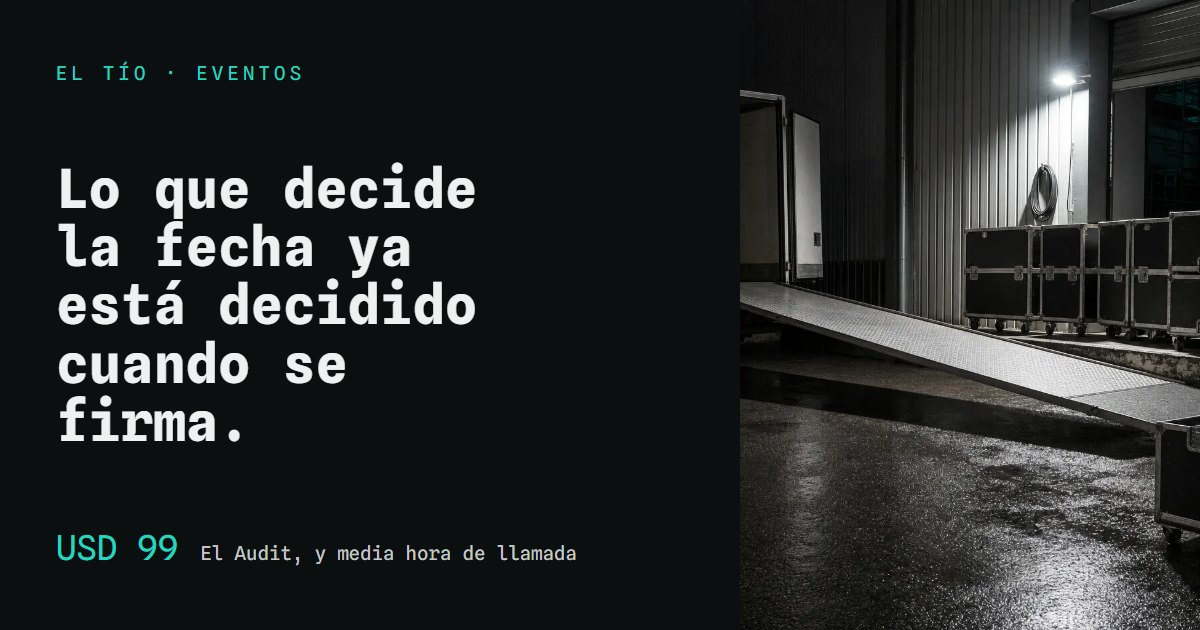
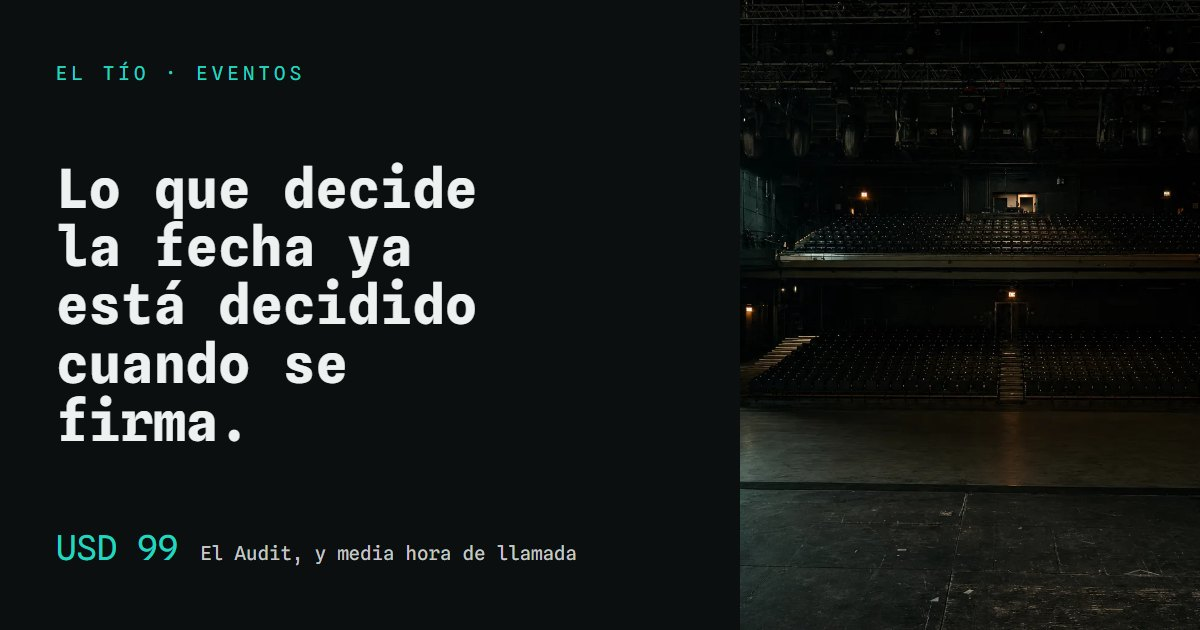
feat: las once fotografias de eventos y la hoja de las secciones nuevas
Sale del generador. La pagina pasa de 20 a 30 KB y de dos imagenes a catorce.

La hoja suma cuatro bloques: la base con su medida al costado, el caso trabajado como
lista de definiciones, la hoja de ruta con el cero marcado, y la fotografia de cada
herramienta. Todas las fotos van desaturadas y con contraste levantado para que convivan
con el carbon: una foto a saturacion plena en una pagina que es sala apagada se lee como un
banner pegado encima.

Medido a 1440, a 390 y a 320x256 con la pagina ya densa: cero desborde, cero textos
encimados, ningun bloque invisible y cero errores. Contraste en verde con el terciario
corregido.

Changed region(s): [[0.6167, 0.0, 1.0, 1.0], [0.6783, 0.9349, 0.7092, 0.9651]]

diff --git a/eventos/index.html b/eventos/index.html
@@ -124,7 +124,33 @@
       <li><h3>La sala</h3><p>El aforo decide el techo. Una sala grande a medio llenar cuesta más que una chica llena.</p></li>
       <li><h3>El precio</h3><p>Se define mirando lo que cobró el vecino, no lo que necesita esta fecha para cerrar.</p></li>
     </ol>
-    <figure class="banda"><img src="../assets/ev-carga.webp" srcset="../assets/ev-carga-480.webp 480w, ../assets/ev-carga-768.webp 768w, ../assets/ev-carga-1200.webp 1200w, ../assets/ev-carga.webp 1536w" sizes="(max-width: 900px) 94vw, 62vw" alt="Cajas de equipo y flight cases apilados en la carga de una sala antes del montaje" width="1536" height="1024" loading="lazy" decoding="async"><figcaption>Todo lo que viene después de firmar es ejecución.</figcaption></figure>
+    <figure class="banda"><img src="../assets/ev-sala-servicio.webp" srcset="../assets/ev-sala-servicio-480.webp 480w, ../assets/ev-sala-servicio-768.webp 768w, ../assets/ev-sala-servicio-1200.webp 1200w, ../assets/ev-sala-servicio.webp 1536w" sizes="(max-width: 900px) 94vw, 62vw" alt="Una sala de conciertos vacía vista desde el escenario, iluminada solo con luces de trabajo" width="1536" height="1024" loading="lazy" decoding="async"><figcaption>La sala vacía con luz de servicio, que es donde se decide todo y lo que ninguna página del rubro muestra.</figcaption></figure>
+  </div>
+</section>
+
+<section class="tramo " id="base" data-desfase="D-75">
+  <div class="tramo-eje" aria-hidden="true">
+    <span class="eje-marca">D-75</span>
+    <span class="eje-linea"></span>
+  </div>
+  <div class="tramo-cuerpo">
+    <p class="rotulo">LA BASE</p>
+    <h2>Esto va siempre, encuentre lo que encuentre el Audit.</h2>
+    <p class="bajada">Es lo que sostiene todo lo demás. Sin esto, cualquier automatización se
+    monta sobre una fecha que nadie sabe cómo se vendió.</p>
+    <ul class="base">
+      <li><div class="base-cab"><h3>CRM</h3><span class="base-medida">sobre el que ya tengas</span></div><p>Si ya tienes uno, trabajamos sobre ese. Si no, lo montamos con el circuito real: artista, hold, contrato, advancing.</p></li>
+      <li><div class="base-cab"><h3>Tu base de datos, ordenada</h3><span class="base-medida">una fila por persona</span></div><p>Compradores de entradas de fechas anteriores, unificados por persona y no por transacción, que es como suelen estar.</p></li>
+      <li><div class="base-cab"><h3>Newsletter propio</h3><span class="base-medida">tu lista, no la de la ticketera</span></div><p>Tu lista para anunciar una fecha antes que la ticketera, y sin pagarle a nadie por llegar a tu propia gente.</p></li>
+      <li><div class="base-cab"><h3>Web propia y editable</h3><span class="base-medida">una página por fecha</span></div><p>El sitio de la productora y una página por evento, con el camino completo hasta el pago.</p></li>
+      <li><div class="base-cab"><h3>Chatbot que atiende y califica</h3><span class="base-medida">a cualquier hora</span></div><p>Contesta lo de siempre: horarios, edad mínima, mesas, accesos y cómo llegar.</p></li>
+    </ul>
+    <div class="con-foto">
+      <figure class="figura"><img src="../assets/ev-oficina-productora.webp" srcset="../assets/ev-oficina-productora-480.webp 480w, ../assets/ev-oficina-productora-768.webp 768w, ../assets/ev-oficina-productora-1200.webp 1200w, ../assets/ev-oficina-productora.webp 1536w" sizes="(max-width: 900px) 94vw, 46vw" alt="La oficina de una productora de noche, con el escritorio cargado de papeles, la lámpara encendida y el planificador de pared en blanco detrás" width="1536" height="1024" loading="lazy" decoding="async"><figcaption>La oficina de la productora, que es lo que ninguna página del rubro muestra.</figcaption></figure>
+      <p class="dato">Nada de esto es una plataforma nuestra. Se monta sobre herramientas
+      que ya existen, queda a tu nombre y con tus accesos, y el equipo aprende a operarlo.
+      Si ya tienes algo funcionando, se trabaja sobre eso.</p>
+    </div>
   </div>
 </section>
 
@@ -191,6 +217,7 @@
     <p class="dato">La misma cuenta, con moneda y tabla de escenarios, está publicada y es
     gratis: <a href="https://app.eltio.net/herramientas/punto-de-equilibrio">la calculadora de punto de
     equilibrio</a>.</p>
+    <figure class="banda"><img src="../assets/ev-foh-consola.webp" srcset="../assets/ev-foh-consola-480.webp 480w, ../assets/ev-foh-consola-768.webp 768w, ../assets/ev-foh-consola-1200.webp 1200w, ../assets/ev-foh-consola.webp 1536w" sizes="(max-width: 900px) 94vw, 62vw" alt="Una consola de sonido de sala en la posición de front of house, con los faders iluminados por una lámpara de cuello" width="1536" height="1024" loading="lazy" decoding="async"><figcaption>El objeto que gradúa algo en una sala es un fader, no una barra de progreso.</figcaption></figure>
   </div>
 </section>
 
@@ -206,12 +233,12 @@
     Entregamos la herramienta y la capacitación para usarla, que es lo que queda cuando
     termina el trabajo.</p>
     <ol class="herramientas">
-      <li data-revela><h3>Analizar una fecha antes de firmarla</h3><p class="herr-frase">Artista, plaza, sala y economía en una sola lectura.</p><p class="herr-cuerpo">Qué audiencia observable hay en esa ciudad, qué compite esa semana, qué tan cargado está el mes y cuál es el número que decide. Cada fecha queda guardada tal como se vio ese día, para poder comparar después contra lo que pasó.</p></li>
-      <li data-revela><h3>Comparar fechas lado a lado</h3><p class="herr-frase">Tres o cuatro opciones, con los mismos criterios.</p><p class="herr-cuerpo">Cuando hay que elegir entre un artista y otro, o entre dos salas, o entre dos fines de semana, la comparación se hace con las mismas variables y no de memoria.</p></li>
-      <li data-revela><h3>La página del evento</h3><p class="herr-frase">El camino completo hasta el pago.</p><p class="herr-cuerpo">Entrada general, mesas, VIP, preguntas frecuentes, WhatsApp y seguimiento. Se arma sobre la ticketera que ya usas, no la reemplaza.</p></li>
-      <li data-revela><h3>El advancing, preparado</h3><p class="herr-frase">El mismo ida y vuelta de cada fecha, listo de antemano.</p><p class="herr-cuerpo">Del contrato y del rider salen los pagos, el hotel, los vuelos, los transfers, la hospitality, lo técnico y los deadlines. Una persona aprueba antes de que salga algo.</p></li>
-      <li data-revela><h3>Tu base de compradores</h3><p class="herr-frase">Unificada por persona, no por transacción.</p><p class="herr-cuerpo">Los que compraron entradas de fechas anteriores, deduplicados y con lo que fueron a ver. Es lo que permite anunciar una fecha a tu propia gente antes que la ticketera.</p></li>
-      <li data-revela><h3>Chatbot que atiende y califica</h3><p class="herr-frase">Lo de siempre, contestado a cualquier hora.</p><p class="herr-cuerpo">Horarios, edad mínima, mesas, accesos y cómo llegar. Y lo que no sabe, lo deriva con la conversación entera adelante.</p></li>
+      <li data-revela><figure class="herr-foto"><img src="../assets/ev-contrato-mesa.webp" srcset="../assets/ev-contrato-mesa-480.webp 480w, ../assets/ev-contrato-mesa-768.webp 768w, ../assets/ev-contrato-mesa-1200.webp 1200w, ../assets/ev-contrato-mesa.webp 1536w" sizes="(max-width: 560px) 92vw, (max-width: 900px) 46vw, 30vw" alt="Un contrato y una hoja de calendario sobre la tapa de un case, con una lámpara de trabajo iluminándolos de costado" width="1536" height="1024" loading="lazy" decoding="async"></figure><h3>Analizar una fecha antes de firmarla</h3><p class="herr-frase">Artista, plaza, sala y economía en una sola lectura.</p><p class="herr-cuerpo">Qué audiencia observable hay en esa ciudad, qué compite esa semana, qué tan cargado está el mes y cuál es el número que decide. Cada fecha queda guardada tal como se vio ese día, para poder comparar después contra lo que pasó.</p></li>
+      <li data-revela><figure class="herr-foto"><img src="../assets/ev-afiches-pared.webp" srcset="../assets/ev-afiches-pared-480.webp 480w, ../assets/ev-afiches-pared-768.webp 768w, ../assets/ev-afiches-pared-1200.webp 1200w, ../assets/ev-afiches-pared.webp 1536w" sizes="(max-width: 560px) 92vw, (max-width: 900px) 46vw, 30vw" alt="Una pared de pasillo de sala cubierta de capas de afiches serigrafiados, rasgados y superpuestos" width="1536" height="1024" loading="lazy" decoding="async"></figure><h3>Comparar fechas lado a lado</h3><p class="herr-frase">Tres o cuatro opciones, con los mismos criterios.</p><p class="herr-cuerpo">Cuando hay que elegir entre un artista y otro, o entre dos salas, o entre dos fines de semana, la comparación se hace con las mismas variables y no de memoria.</p></li>
+      <li data-revela><figure class="herr-foto"><img src="../assets/ev-boleteria.webp" srcset="../assets/ev-boleteria-480.webp 480w, ../assets/ev-boleteria-768.webp 768w, ../assets/ev-boleteria-1200.webp 1200w, ../assets/ev-boleteria.webp 1536w" sizes="(max-width: 560px) 92vw, (max-width: 900px) 46vw, 30vw" alt="La ventanilla de boletería de una sala cerrada de noche, con la persiana a medio bajar y una luz encendida adentro" width="1536" height="1024" loading="lazy" decoding="async"></figure><h3>La página del evento</h3><p class="herr-frase">El camino completo hasta el pago.</p><p class="herr-cuerpo">Entrada general, mesas, VIP, preguntas frecuentes, WhatsApp y seguimiento. Se arma sobre la ticketera que ya usas, no la reemplaza.</p></li>
+      <li data-revela><figure class="herr-foto"><img src="../assets/ev-advancing-caso.webp" srcset="../assets/ev-advancing-caso-480.webp 480w, ../assets/ev-advancing-caso-768.webp 768w, ../assets/ev-advancing-caso.webp 1024w" sizes="(max-width: 560px) 92vw, (max-width: 900px) 46vw, 30vw" alt="Un case negro abierto en el piso de un pasillo de backstage, con una carpeta de anillos, cables enrollados y una linterna adentro" width="1024" height="1024" loading="lazy" decoding="async"></figure><h3>El advancing, preparado</h3><p class="herr-frase">El mismo ida y vuelta de cada fecha, listo de antemano.</p><p class="herr-cuerpo">Del contrato y del rider salen los pagos, el hotel, los vuelos, los transfers, la hospitality, lo técnico y los deadlines. Una persona aprueba antes de que salga algo.</p></li>
+      <li data-revela><figure class="herr-foto"><img src="../assets/ev-pulseras.webp" srcset="../assets/ev-pulseras-480.webp 480w, ../assets/ev-pulseras-768.webp 768w, ../assets/ev-pulseras-1200.webp 1200w, ../assets/ev-pulseras.webp 1536w" sizes="(max-width: 560px) 92vw, (max-width: 900px) 46vw, 30vw" alt="Una pila de pulseras de tela y talones de entrada sobre una mesa metálica oscura en la entrada de una sala" width="1536" height="1024" loading="lazy" decoding="async"></figure><h3>Tu base de compradores</h3><p class="herr-frase">Unificada por persona, no por transacción.</p><p class="herr-cuerpo">Los que compraron entradas de fechas anteriores, deduplicados y con lo que fueron a ver. Es lo que permite anunciar una fecha a tu propia gente antes que la ticketera.</p></li>
+      <li data-revela><figure class="herr-foto"><img src="../assets/ev-puerta-lista.webp" srcset="../assets/ev-puerta-lista-480.webp 480w, ../assets/ev-puerta-lista-768.webp 768w, ../assets/ev-puerta-lista-1200.webp 1200w, ../assets/ev-puerta-lista.webp 1536w" sizes="(max-width: 560px) 92vw, (max-width: 900px) 46vw, 30vw" alt="La puerta de entrada de una sala de noche, con la tabla de la lista de puerta colgada al costado" width="1536" height="1024" loading="lazy" decoding="async"></figure><h3>Chatbot que atiende y califica</h3><p class="herr-frase">Lo de siempre, contestado a cualquier hora.</p><p class="herr-cuerpo">Horarios, edad mínima, mesas, accesos y cómo llegar. Y lo que no sabe, lo deriva con la conversación entera adelante.</p></li>
     </ol>
   </div>
 </section>
@@ -246,6 +273,41 @@
       </figure>
     </div>
     <p class="honesto">No predecimos venta de entradas, y conviene desconfiar de quien lo prometa. Otras herramientas del rubro lo hacen con datos de ticketing verificados que nosotros no tenemos. Nuestro terreno es la economía de la fecha.</p>
+  </div>
+</section>
+
+<section class="tramo " id="caso" data-desfase="D-21">
+  <div class="tramo-eje" aria-hidden="true">
+    <span class="eje-marca">D-21</span>
+    <span class="eje-linea"></span>
+  </div>
+  <div class="tramo-cuerpo">
+    <p class="rotulo">UN CASO</p>
+    <h2>Una productora con 2 a 4 fechas por mes en una sala de 800 personas</h2>
+    <dl class="escenario">
+      <div class="esc-fila"><dt>QUÉ ENTRA</dt><dd>El cachet, el costo de sala, producción y publicidad, el precio de entrada y la comisión de la ticketera. Del lado del artista, qué audiencia observable hay en esa ciudad y qué otra cosa hay esa semana.</dd></div>
+      <div class="esc-fila"><dt>QUÉ SALE</dt><dd>Cuántas entradas hacen falta para no perder y qué porcentaje del aforo representa. Si son 620 de 800, es un riesgo alto.</dd></div>
+      <div class="esc-fila"><dt>QUÉ CAMBIA</dt><dd>Se firma, se renegocia el cachet o se pasa. Con el número sobre la mesa, no después.</dd></div>
+    </dl>
+    <p class="honesto">Lo que mediríamos: fecha por fecha, lo estimado contra lo que pasó. Es la única forma honesta de ganar precisión.</p>
+  </div>
+</section>
+
+<section class="ruta" id="ruta">
+  <div class="ruta-marco">
+    <p class="rotulo">LA HOJA DE RUTA</p>
+    <h2>Noventa días, y el único momento que no se mueve.</h2>
+    <ol class="ruta-lista">
+      <li><span class="ruta-d">D-90</span><span class="ruta-que">Se decide</span><span class="ruta-det">Artista, día, sala, cachet y precio. Acá se gana o se pierde la fecha.</span></li>
+      <li><span class="ruta-d">D-75</span><span class="ruta-que">Se monta la base</span><span class="ruta-det">CRM, base de compradores, newsletter, página propia.</span></li>
+      <li><span class="ruta-d">D-60</span><span class="ruta-que">Se hace la cuenta</span><span class="ruta-det">Cuántas entradas para no perder y qué parte del aforo es.</span></li>
+      <li><span class="ruta-d">D-45</span><span class="ruta-que">Se firma o no</span><span class="ruta-det">Con el número sobre la mesa: se firma, se renegocia o se pasa.</span></li>
+      <li><span class="ruta-d">D-30</span><span class="ruta-que">Se publica</span><span class="ruta-det">La página de la fecha, el anuncio a tu propia gente, la pauta.</span></li>
+      <li><span class="ruta-d">D-14</span><span class="ruta-que">Se prepara la fecha</span><span class="ruta-det">Advancing: pagos, hotel, vuelos, transfers, técnico.</span></li>
+      <li><span class="ruta-d">D-3</span><span class="ruta-que">Se cierra la operación</span><span class="ruta-det">Listas, acreditaciones, puerta, horarios.</span></li>
+      <li class='ruta-cero'><span class="ruta-d">D-0</span><span class="ruta-que">Puertas</span><span class="ruta-det">A partir de acá solo se ejecuta.</span></li>
+      <li><span class="ruta-d">D+1</span><span class="ruta-que">Settlement</span><span class="ruta-det">Lo estimado contra lo que pasó, guardado para la próxima.</span></li>
+    </ol>
   </div>
 </section>
 
@@ -286,6 +348,7 @@
       <li data-revela><span class="paso-num">03</span><h3>Automatizamos</h3><p>Solo lo que tiene sentido en esta productora, en el orden que conviene.</p></li>
       <li data-revela><span class="paso-num">04</span><h3>Capacitamos</h3><p>El equipo queda sabiendo operarlo. Si depende de nosotros, no sirve.</p></li>
     </ol>
+    <figure class="banda"><img src="../assets/ev-prueba-sonido.webp" srcset="../assets/ev-prueba-sonido-480.webp 480w, ../assets/ev-prueba-sonido-768.webp 768w, ../assets/ev-prueba-sonido-1200.webp 1200w, ../assets/ev-prueba-sonido.webp 1536w" sizes="(max-width: 900px) 94vw, 62vw" alt="Un escenario vacío durante el montaje, con los pies de micrófono colocados y los cables pegados al piso" width="1536" height="1024" loading="lazy" decoding="async"><figcaption>Cada tiempo se apoya en el anterior, igual que el montaje.</figcaption></figure>
   </div>
 </section>
 
@@ -325,6 +388,7 @@
         <p class="liq-entrega">Se entrega en 24 a 48 horas hábiles.</p>
       </div>
     </div>
+    <figure class="banda"><img src="../assets/ev-liquidacion.webp" srcset="../assets/ev-liquidacion-480.webp 480w, ../assets/ev-liquidacion-768.webp 768w, ../assets/ev-liquidacion-1200.webp 1200w, ../assets/ev-liquidacion.webp 1536w" sizes="(max-width: 900px) 94vw, 62vw" alt="La liquidación de una fecha contándose sobre una mesa metálica después del show, con el formulario, la calculadora y el contador de entradas" width="1536" height="1024" loading="lazy" decoding="async"><figcaption>El settlement es donde hoy aparece el número. Debería aparecer noventa días antes.</figcaption></figure>
   </div>
 </section>
 

diff --git a/eventos.css b/eventos.css
@@ -593,6 +593,135 @@ p { margin: 0 0 var(--e3); max-width: 62ch; }
 .herr-cuerpo { font-size: 13.5px; line-height: 1.66; color: var(--cal-3); margin: 0; }
 
 
+
+
+/* --------------------------------------------------------------------- D-75 la base
+   El posicionamiento del founder: la base lidera. En la version anterior era una lista
+   plana sin borde ni fondo, con cero inversion visual, mientras el diferencial se
+   llevaba el unico diagrama de la pagina. */
+
+.base { list-style: none; margin: var(--e5) 0 0; padding: 0; display: grid; gap: 0; }
+.base li { border-top: 1px solid var(--linea); padding: var(--e3) 0; }
+.base li:last-child { border-bottom: 1px solid var(--linea); }
+.base-cab {
+  display: flex;
+  flex-wrap: wrap;
+  align-items: baseline;
+  justify-content: space-between;
+  gap: var(--e2) var(--e4);
+}
+.base-medida {
+  font-family: var(--voz);
+  font-size: 11.5px;
+  letter-spacing: 0.12em;
+  color: var(--gel);
+  white-space: nowrap;
+}
+.base p { margin: var(--e2) 0 0; font-size: 14.5px; color: var(--cal-2); max-width: 68ch; }
+
+.con-foto {
+  display: grid;
+  grid-template-columns: minmax(0, 1fr) minmax(0, 0.82fr);
+  gap: var(--e4);
+  align-items: end;
+  margin-top: var(--e5);
+}
+.con-foto .figura { margin: 0; }
+.con-foto .figura img { width: 100%; height: auto; aspect-ratio: 16 / 9; object-fit: cover; filter: saturate(0.72) contrast(1.05); }
+.con-foto .figura figcaption {
+  font-family: var(--voz);
+  font-size: 12.5px;
+  line-height: 1.6;
+  color: var(--cal-3);
+  margin-top: var(--e2);
+  padding-top: var(--e2);
+  border-top: 1px solid var(--linea);
+}
+@media (max-width: 900px) { .con-foto { grid-template-columns: 1fr; } }
+
+
+/* ------------------------------------------------------------------ D-21 el escenario
+   El unico bloque que habla del negocio del lector con numeros concretos. Estaba escrito
+   en los datos del vertical y la pagina anterior lo enterraba en la seccion nueve. */
+
+.escenario { margin: var(--e5) 0 0; display: grid; gap: 0; }
+.esc-fila {
+  display: grid;
+  grid-template-columns: minmax(120px, 176px) minmax(0, 1fr);
+  gap: var(--e4);
+  border-top: 1px solid var(--linea-fuerte);
+  padding: var(--e3) 0;
+}
+.esc-fila dt {
+  font-family: var(--voz);
+  font-size: 11.5px;
+  letter-spacing: 0.16em;
+  color: var(--gel);
+}
+.esc-fila dd { margin: 0; font-size: 15px; color: var(--cal-2); max-width: 62ch; }
+@media (max-width: 640px) { .esc-fila { grid-template-columns: 1fr; gap: var(--e1); } }
+
+
+/* ==================================================================== la hoja de ruta
+   El componente de firma (c) hecho explicito: los mismos desfases que enhebran la pagina,
+   puestos como lo que son, un run of show. El orden rector de las mejores referencias del
+   rubro es la grilla de horarios, no una secuencia de modulos de marketing. */
+
+.ruta {
+  background: var(--n3);
+  padding: var(--e6) var(--margen);
+  border-top: 1px solid var(--linea);
+  border-bottom: 1px solid var(--linea);
+}
+.ruta-marco { max-width: var(--ancho); margin: 0 auto; }
+.ruta-lista { list-style: none; margin: var(--e5) 0 0; padding: 0; }
+.ruta-lista li {
+  display: grid;
+  grid-template-columns: 72px minmax(150px, 0.6fr) minmax(0, 1fr);
+  gap: var(--e3) var(--e4);
+  align-items: baseline;
+  border-top: 1px solid var(--linea);
+  padding: var(--e3) 0;
+}
+.ruta-lista li:last-child { border-bottom: 1px solid var(--linea); }
+.ruta-d {
+  font-family: var(--voz);
+  font-size: 13px;
+  font-weight: 500;
+  letter-spacing: 0.05em;
+  color: var(--cal-3);
+  font-variant-numeric: tabular-nums;
+}
+.ruta-que { font-family: var(--voz); font-size: 15.5px; color: var(--cal); letter-spacing: -0.01em; }
+.ruta-det { font-size: 14px; color: var(--cal-2); }
+
+/* El cero es el unico quiebre de la lista, igual que PUERTAS es el unico quiebre de la
+   pagina. Es el tercero y ultimo de los focos. */
+.ruta-cero { border-top-color: var(--gel-linea); }
+.ruta-cero .ruta-d { color: var(--gel); }
+.ruta-cero .ruta-que { color: var(--foco); text-shadow: 0 0 26px rgba(255, 255, 255, 0.18); }
+
+@media (max-width: 760px) {
+  .ruta-lista li { grid-template-columns: 62px minmax(0, 1fr); }
+  .ruta-det { grid-column: 2; }
+}
+
+
+/* ---------------------------------------------------- la fotografia de las herramientas
+   Cada herramienta lleva la suya, y cada una tiene referencia directa con lo que dice su
+   parrafo: el contrato sobre el case, los afiches uno al lado del otro, la boleteria, el
+   case del advancing, las pulseras de los que ya fueron. */
+
+.herramientas .herr-foto { margin: 0 0 var(--e3); }
+.herramientas .herr-foto img {
+  width: 100%;
+  height: auto;
+  aspect-ratio: 4 / 3;
+  object-fit: cover;
+  filter: saturate(0.7) contrast(1.06);
+}
+
+
 /* ----------------------------------------------------------------- D-30 el producto
    Las capturas van a tamano real y apoyadas en la retícula, sin marco de
    dispositivo, sin perspectiva, sin sombra y sin esquinas redondeadas. Un
